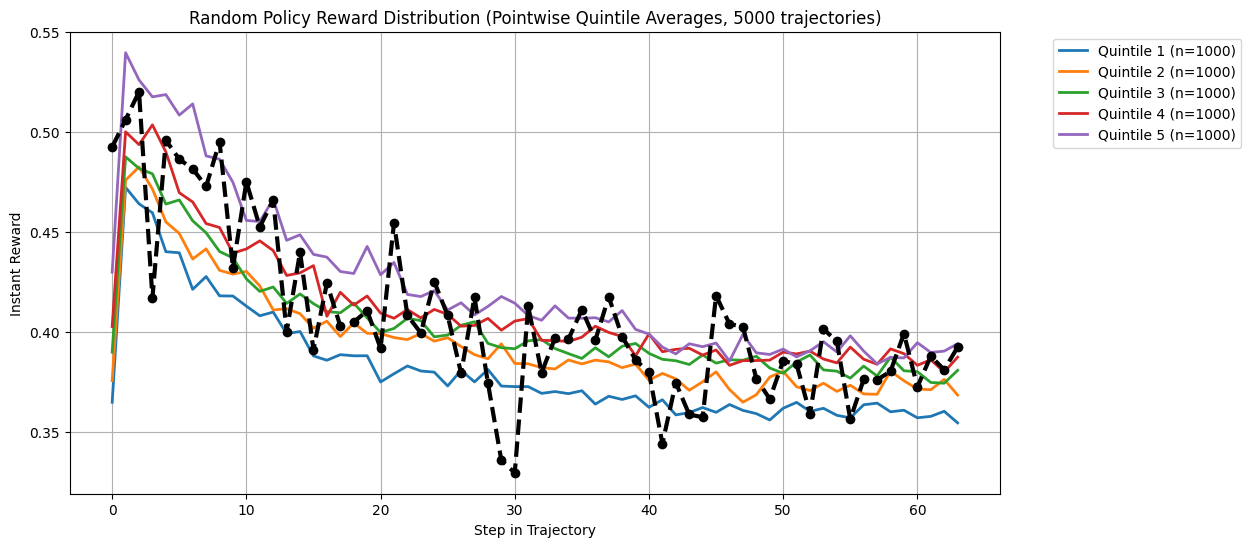
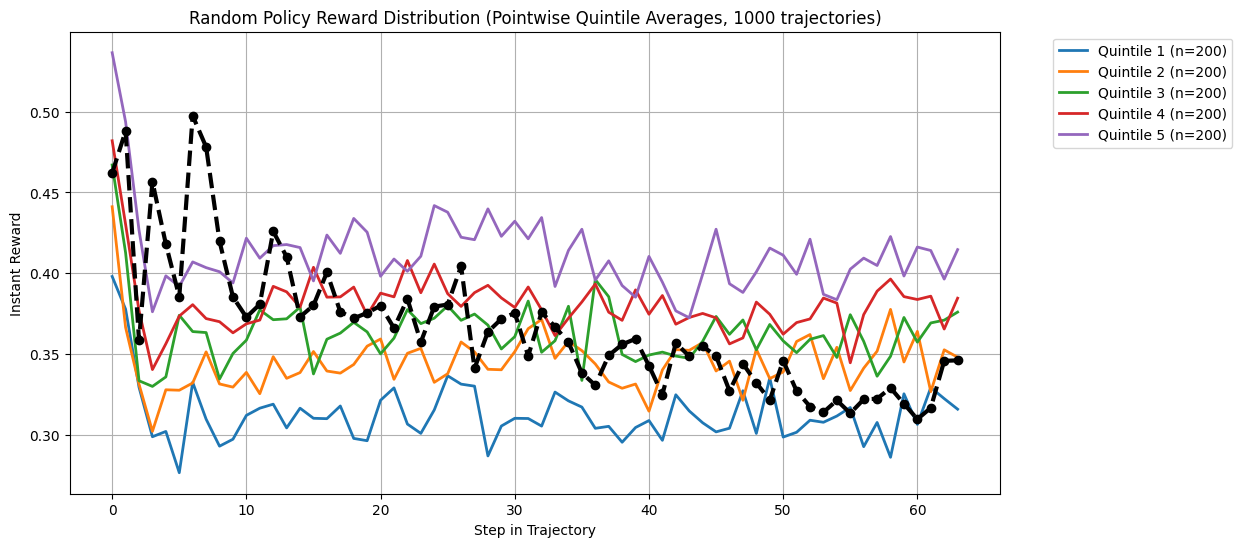
added assertions around batched reward

diff --git a/src/curriculum.py b/src/curriculum.py
@@ -415,14 +415,14 @@ class ExpertIterationTrainer:
         critic_model: PreTrainedModel,
         tokenizer: PreTrainedTokenizer,
         num_vars: int,
-        device: torch.device = torch.device("cuda"),
+        device: torch.device = torch.device("cuda:0"),
         sd_factor: float = 1.0,
         temperature: float = 1.0,
         lr: float = 1e-3,
         
     ):
         self.actor_model = actor_model
-        self.critic_model = critic_model
+        self.critic_model = actor_model
         self.tokenizer = tokenizer
         # Ensure the tokenizer has a padding token.
         if self.tokenizer.pad_token is None:
@@ -433,9 +433,11 @@ class ExpertIterationTrainer:
         self.temperature = temperature
         self.lr = lr
 
-        # Ensure models are on the correct device
-        self.actor_model.to(self.device)
-        self.critic_model.to(self.device)
+        # Only move the model if it's not using offloading
+        if not self._is_offloaded(self.actor_model):
+            self.actor_model.to(self.device)
+        if not self._is_offloaded(self.critic_model):
+            self.critic_model.to(self.device)
 
         # Disable gradients for critic model
         for param in self.critic_model.parameters():
@@ -444,6 +446,14 @@ class ExpertIterationTrainer:
         self.stats = RunningStats()
         self.optimizer = Adam8bit(self.actor_model.parameters(), lr=lr)
         self.reward_fn = self.batched_model_reward
+
+    def _is_offloaded(self, model):
+        # This is a simple heuristic: offloaded models typically have parameters on device "meta".
+        # Adjust the logic as needed for your use-case.
+        for param in model.parameters():
+            if param.device.type == "meta":
+                return True
+        return False
 
     def update_stats(self, reward: float):
         """Update running statistics with new reward."""
@@ -462,11 +472,19 @@ class ExpertIterationTrainer:
         if not trajectories:
             return
 
+        # Prepend instruction matching the reward computation
+        instruction = "[INST] Predict evaluations of a hidden linear boolean formula in the form b xor a_1 x_1 xor a_2 x_2 xor ... xor x_n. [/INST]\n"
+        instr_tokens = self.tokenizer(instruction, add_special_tokens=False, return_tensors="pt").input_ids[0]
+        
         # Tokenize all trajectories
-        prompts = [format_trajectory_prompt(traj) for traj in trajectories]
+        prompts = [instruction + format_trajectory_prompt(traj) for traj in trajectories]
         batch = self.tokenizer(prompts, return_tensors="pt", padding=True, truncation=True)
         input_ids = batch["input_ids"].to(self.device)
         attention_mask = batch["attention_mask"].to(self.device)
+        
+        # Create labels, masking the instruction part
+        labels = input_ids.clone()
+        labels[:, :len(instr_tokens)] = -100  # Mask instruction tokens
         
         # Get arrow token ID
         arrow_token = self.tokenizer.encode(" ->", add_special_tokens=False)[0]
@@ -478,15 +496,12 @@ class ExpertIterationTrainer:
         newline = self.tokenizer.encode("\n", add_special_tokens=False)[0]
         structural_tokens = {bracket_open, bracket_close, comma, arrow_token, newline}
         
-        # Create labels with shifted input_ids for autoregressive training
-        labels = input_ids.clone()
-        
         # Mask structural tokens and arrow answers
         for batch_idx in range(input_ids.size(0)):
             for pos in range(input_ids.size(1)):
                 token = input_ids[batch_idx, pos].item()
                 
-                # Mask structural tokens and arrow answers
+                # Mask structural tokens (only after instruction)
                 if token in structural_tokens:
                     labels[batch_idx, pos] = -100
                     
@@ -653,23 +668,29 @@ class ExpertIterationTrainer:
         return trajectories
 
     def batched_model_reward(self, trajectories: list[Trajectory]) -> torch.Tensor:
-        """
-        Batched reward computation for a list of trajectories.
-        For each trajectory, the full prompt is tokenized and all occurrences of the arrow token
-        (" ->") are identified. For each occurrence, the token immediately following
-        (i.e. index+1) is used to retrieve its probability from the critic model's output.
-        The correct probability (for " True" if the observation is True, or " False" otherwise)
-        is used as the reward. Returns a tensor of shape [batch_size, 2^(num_vars)],
-        where each row contains the rewards for each generation step.
-        """
-        # Construct prompts from trajectories.
-        prompts = [format_trajectory_prompt(traj) for traj in trajectories]
-        batch = self.tokenizer(prompts, return_tensors="pt", padding=True, truncation=True)
-        batch = {k: v.to(self.device) for k, v in batch.items()}
-        with torch.no_grad():
-            outputs = self.critic_model(input_ids=batch["input_ids"],
-                                        attention_mask=batch["attention_mask"])
+        # Validate answer positions are consistent across batches
+        print("Starting batched_model_reward computation")
+        # Prepend instruction to help model understand the task
+        instruction = "[INST] Predict evaluations of a hidden linear boolean formula in the form b xor a_1 x_1 xor a_2 x_2 xor ... xor x_n. [/INST]\n"
+        prompts = [instruction + format_trajectory_prompt(traj) for traj in trajectories]
+        
+        # Tokenize all trajectories
+        batch = self.tokenizer(
+            prompts,
+            return_tensors="pt",
+            padding=True,
+            truncation=True
+        ).to(self.device)
+        
+        outputs = self.critic_model(**batch)
+        print(f"Model outputs shape: {outputs.logits.shape}")
         logits = outputs.logits  # shape: (B, seq_len, vocab_size)
+        
+        # Extract logits for " True" and " False" tokens
+        true_token = self.tokenizer.encode(" True", add_special_tokens=False)[0]
+        false_token = self.tokenizer.encode(" False", add_special_tokens=False)[0]
+        print(f"' True' token ID: {true_token}")  # Debug token IDs
+        print(f"' False' token ID: {false_token}")
         
         # Determine arrow token id.
         arrow_token_ids = self.tokenizer.encode(" ->", add_special_tokens=False)
@@ -680,18 +701,31 @@ class ExpertIterationTrainer:
         # Compute arrow positions using first sample (assumed consistent across batch).
         sample_tokens = batch["input_ids"][0].tolist()
         arrow_positions = [i for i, token in enumerate(sample_tokens) if token == arrow_token]
+        print(f"Found arrow positions: {arrow_positions}")
+        
+        # Verify arrow positions are consistent across all batches
+        for batch_idx in range(1, batch["input_ids"].size(0)):
+            current_tokens = batch["input_ids"][batch_idx].tolist()
+            for pos in arrow_positions:
+                if pos >= len(current_tokens):
+                    continue  # Skip if position is beyond padding
+                assert current_tokens[pos] == arrow_token, f"Batch {batch_idx} position {pos} has token {current_tokens[pos]} != arrow {arrow_token}"
+        
         # Answer positions: immediately after each arrow.
         answer_positions = [pos + 1 for pos in arrow_positions]
         B = batch["input_ids"].size(0)
         L = len(answer_positions)
         answer_positions_tensor = torch.tensor(answer_positions, device=self.device)
         
+        # Verify answer positions point to True/False tokens
+        for batch_idx in range(batch["input_ids"].size(0)):
+            current_tokens = batch["input_ids"][batch_idx].tolist()
+            for ans_pos in answer_positions:
+                if ans_pos < len(current_tokens):
+                    assert current_tokens[ans_pos] in {true_token, false_token}, f"Position {ans_pos} has invalid token {current_tokens[ans_pos]}"
+        
         # Gather logits at answer positions: shape (B, L, vocab_size)
         selected_logits = logits[:, answer_positions_tensor, :]
-        
-        # Get token ids for " True" and " False" (with leading spaces).
-        true_token = self.tokenizer.encode(" True", add_special_tokens=False)[0]
-        false_token = self.tokenizer.encode(" False", add_special_tokens=False)[0]
         
         # Instead of computing softmax over the entire vocabulary, restrict to the two tokens.
         # Gather logits for only these two tokens.
@@ -700,6 +734,10 @@ class ExpertIterationTrainer:
         max_logits, _ = torch.max(true_false_logits, dim=-1, keepdim=True)
         exp_logits = torch.exp(true_false_logits - max_logits)
         sum_exp = exp_logits.sum(dim=-1, keepdim=True)
+        # Debug: Print sample probabilities
+        sample_probs = exp_logits[0, 0, :] / sum_exp[0, 0, :]
+        print(f"Sample probabilities (True, False): {sample_probs.tolist()}")
+        
         probs = exp_logits / sum_exp  # shape: (B, L, 2)
         
         # Initialize rewards tensor.
@@ -711,6 +749,7 @@ class ExpertIterationTrainer:
             for j, obs in enumerate(traj.observations):
                 if obs:
                     rewards[i, j] = probs[i, j, 0]
+                    print(f"True case: {probs[i,j,0].item():.3f}") if i == 0 else None
                 else:
                     rewards[i, j] = probs[i, j, 1]
         return rewards

diff --git a/tests/test_curriculum.py b/tests/test_curriculum.py
@@ -7,7 +7,6 @@ import numpy as np
 import matplotlib.pyplot as plt
 from pathlib import Path
 import math
-import logging
 
 from src.curriculum import (
     RandomTableFormula,
@@ -751,9 +750,9 @@ def test_random_policy_reward_distribution():
     # Set model type: "gpt2" or "llama"
     model_name = "llama"  # Change to "llama" for Meta-Llama model.
     if model_name.lower() == "llama":
-        model_id = "meta-llama/Meta-Llama-3.1-8B-Instruct"
-        num_trajectories = 500
-        reward_compute_batch_size = 64
+        model_id = "meta-llama/Llama-3.3-70B-Instruct"
+        num_trajectories = 100 
+        reward_compute_batch_size = 4
     else:
         model_id = model_name
         num_trajectories = 10000
@@ -763,15 +762,14 @@ def test_random_policy_reward_distribution():
     max_steps = 2 ** num_vars
     
     # Initialize model components
-    model = AutoModelForCausalLM.from_pretrained(model_id)
+    model = AutoModelForCausalLM.from_pretrained(model_id, torch_dtype=torch.bfloat16, device_map="auto", offload_folder="offload")
     tokenizer = AutoTokenizer.from_pretrained(model_id)
     tokenizer.pad_token = tokenizer.eos_token
     trainer = ExpertIterationTrainer(
         actor_model=model,
         critic_model=model,
         tokenizer=tokenizer,
-        num_vars=num_vars,
-        device=torch.device("cuda")
+        num_vars=num_vars
     )
     
     # Create simple linear formula
@@ -822,19 +820,25 @@ def test_random_policy_reward_distribution():
     # Compute and plot the optimal policy by averaging over multiple formulas.
     # Instead of generating several optimal trajectories for the same formula,
     # we generate a new formula for each trial.
-    num_optimal_trials = 30
+    num_optimal_trials = 32 
     optimal_trajs = []
     for _ in range(num_optimal_trials):
          # Generate a new formula instance (this could also be random if desired)
          new_formula = LinearFormula(num_vars=num_vars)
          optimal_trajs.append(trainer.optimal_trajectory(new_formula, num_vars))
-    optimal_rewards_tensor = trainer.batched_model_reward(optimal_trajs)
+    # Calculate rewards for the optimal trajectories in mini-batches using reward_compute_batch_size.
+    optimal_rewards_list = []
+    for i in range(0, len(optimal_trajs), reward_compute_batch_size):
+         batch = optimal_trajs[i:i+reward_compute_batch_size]
+         rewards_tensor = trainer.batched_model_reward(batch)
+         optimal_rewards_list.append(rewards_tensor)
+    optimal_rewards_tensor = torch.cat(optimal_rewards_list, dim=0)
     optimal_rewards_avg = optimal_rewards_tensor.mean(dim=0).tolist()
     steps_opt = np.arange(len(optimal_rewards_avg))
     plt.plot(steps_opt, optimal_rewards_avg, label="Optimal Policy (avg over formulas)", 
              linewidth=3, linestyle='--', marker='o', color='black')
 
-    plot_path = "random_policy_rewards.png"
+    plot_path = "random_policy_rewards_prompt.png"
     plt.savefig(plot_path, bbox_inches='tight')
     plt.close()
 
